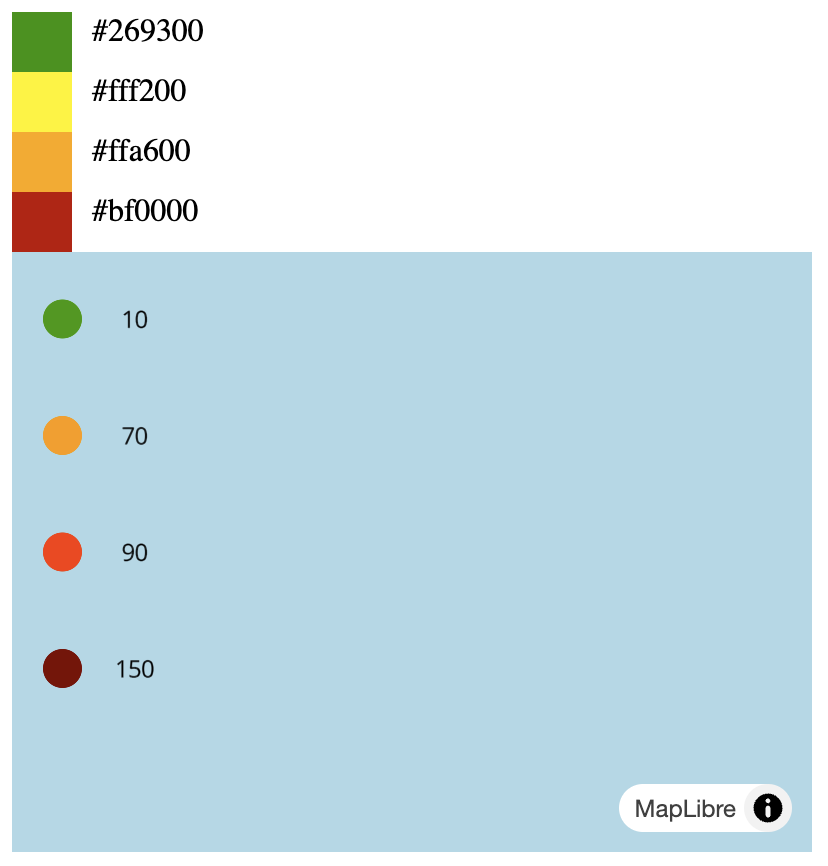
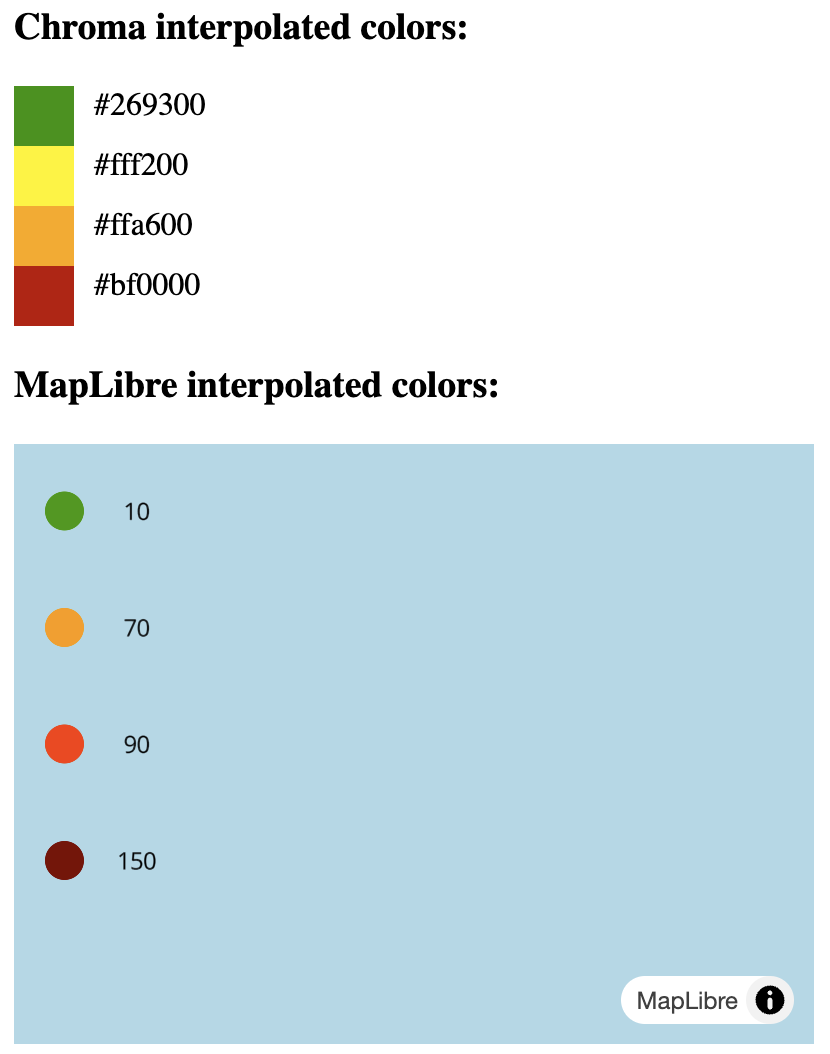
lala

diff --git a/src/App.tsx b/src/App.tsx
@@ -49,6 +49,7 @@ export const App = () => {
   return (
     <>
       <div>
+        <h3>Chroma interpolated colors:</h3>
         {geojson.features.map((feature, index) => (
           <div
             key={index}
@@ -65,6 +66,7 @@ export const App = () => {
         ))}
       </div>
 
+      <h3>MapLibre interpolated colors:</h3>
       <ReactMap
         initialViewState={{
           longitude: 0.03,

diff --git a/README.md b/README.md
@@ -4,6 +4,6 @@
 
 I want to use the colors from MapLibre outside the map in my Web App, but the interpolated colors between Chroma and MapLibre do not match
 
-![Interpolated colors between Chroma and MapLibre do not match](./public/screen.png)
-
 What needs to be done to get them to match?
+
+![Interpolated colors between Chroma and MapLibre do not match](./public/screen.png)
